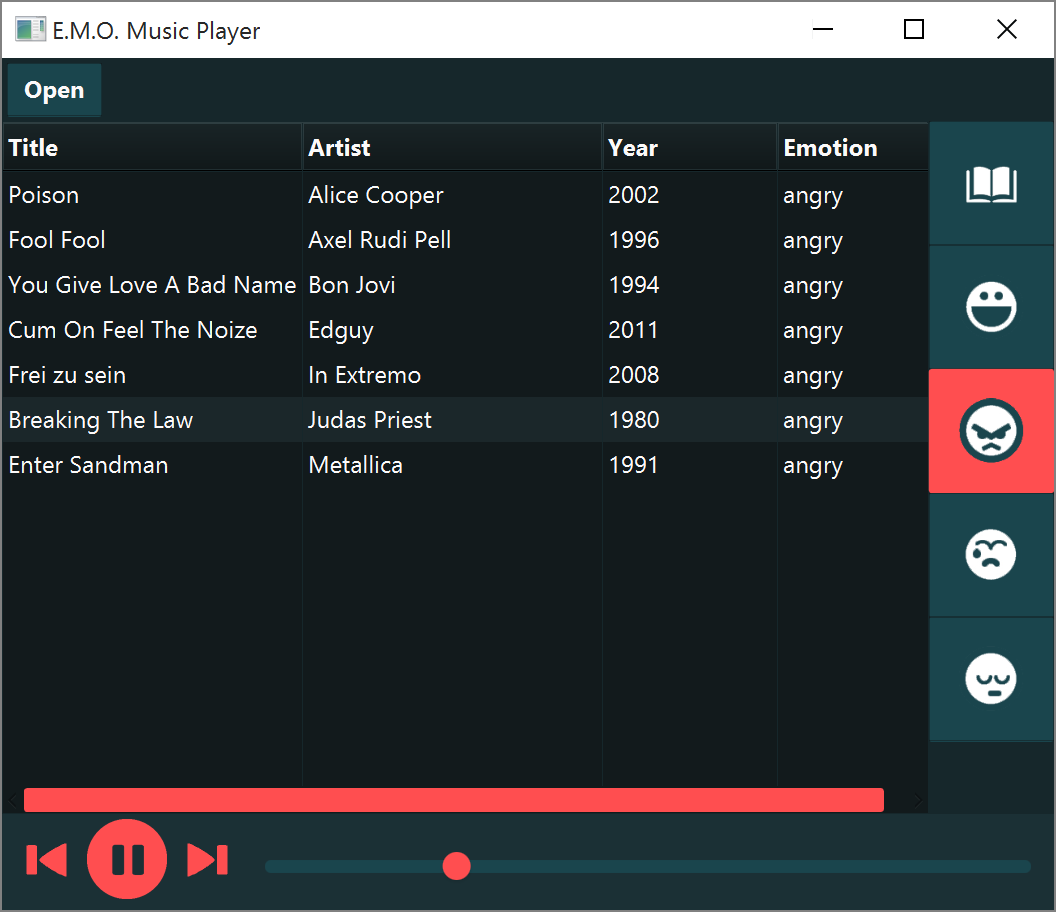
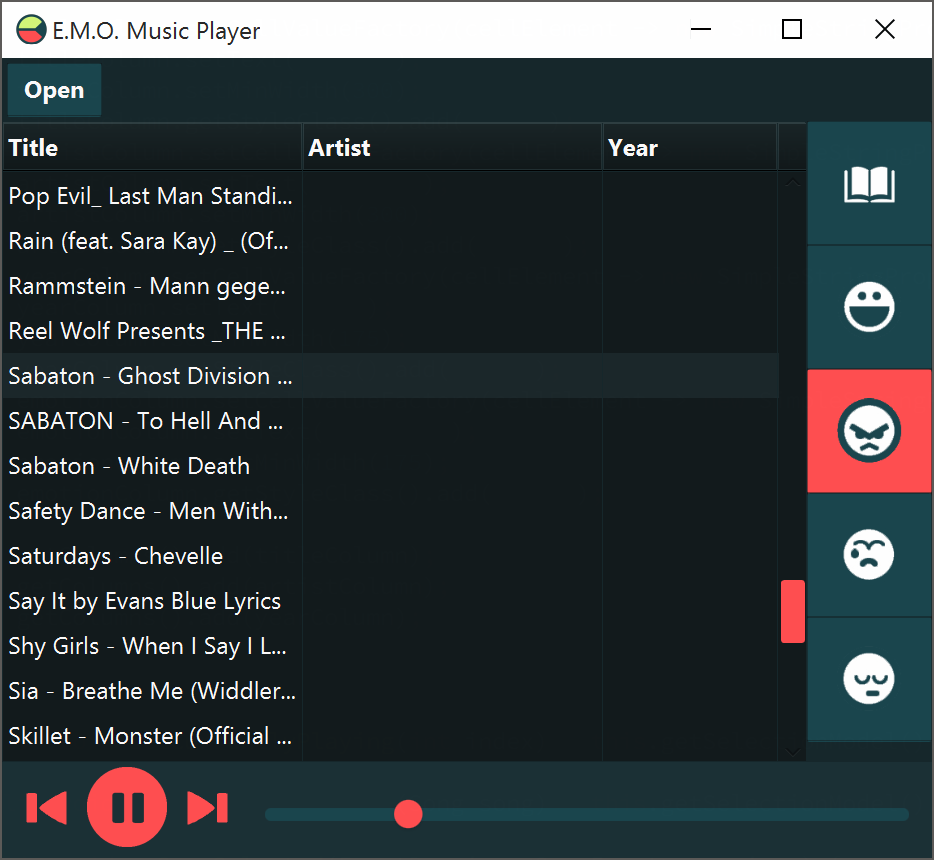
emotion column hidden, updated screenshot for documentation

diff --git a/src/main/java/de/ur/assistenz/emomusic/player/PlaylistView.java b/src/main/java/de/ur/assistenz/emomusic/player/PlaylistView.java
@@ -58,7 +58,7 @@ public class PlaylistView extends TableView<Song> {
         getColumns().add(titleColumn);
         getColumns().add(artistColumn);
         getColumns().add(yearColumn);
-        getColumns().add(emotionColumn);
+        // getColumns().add(emotionColumn);
     }
 
     public void setCurrentlyPlaying(int index) {
